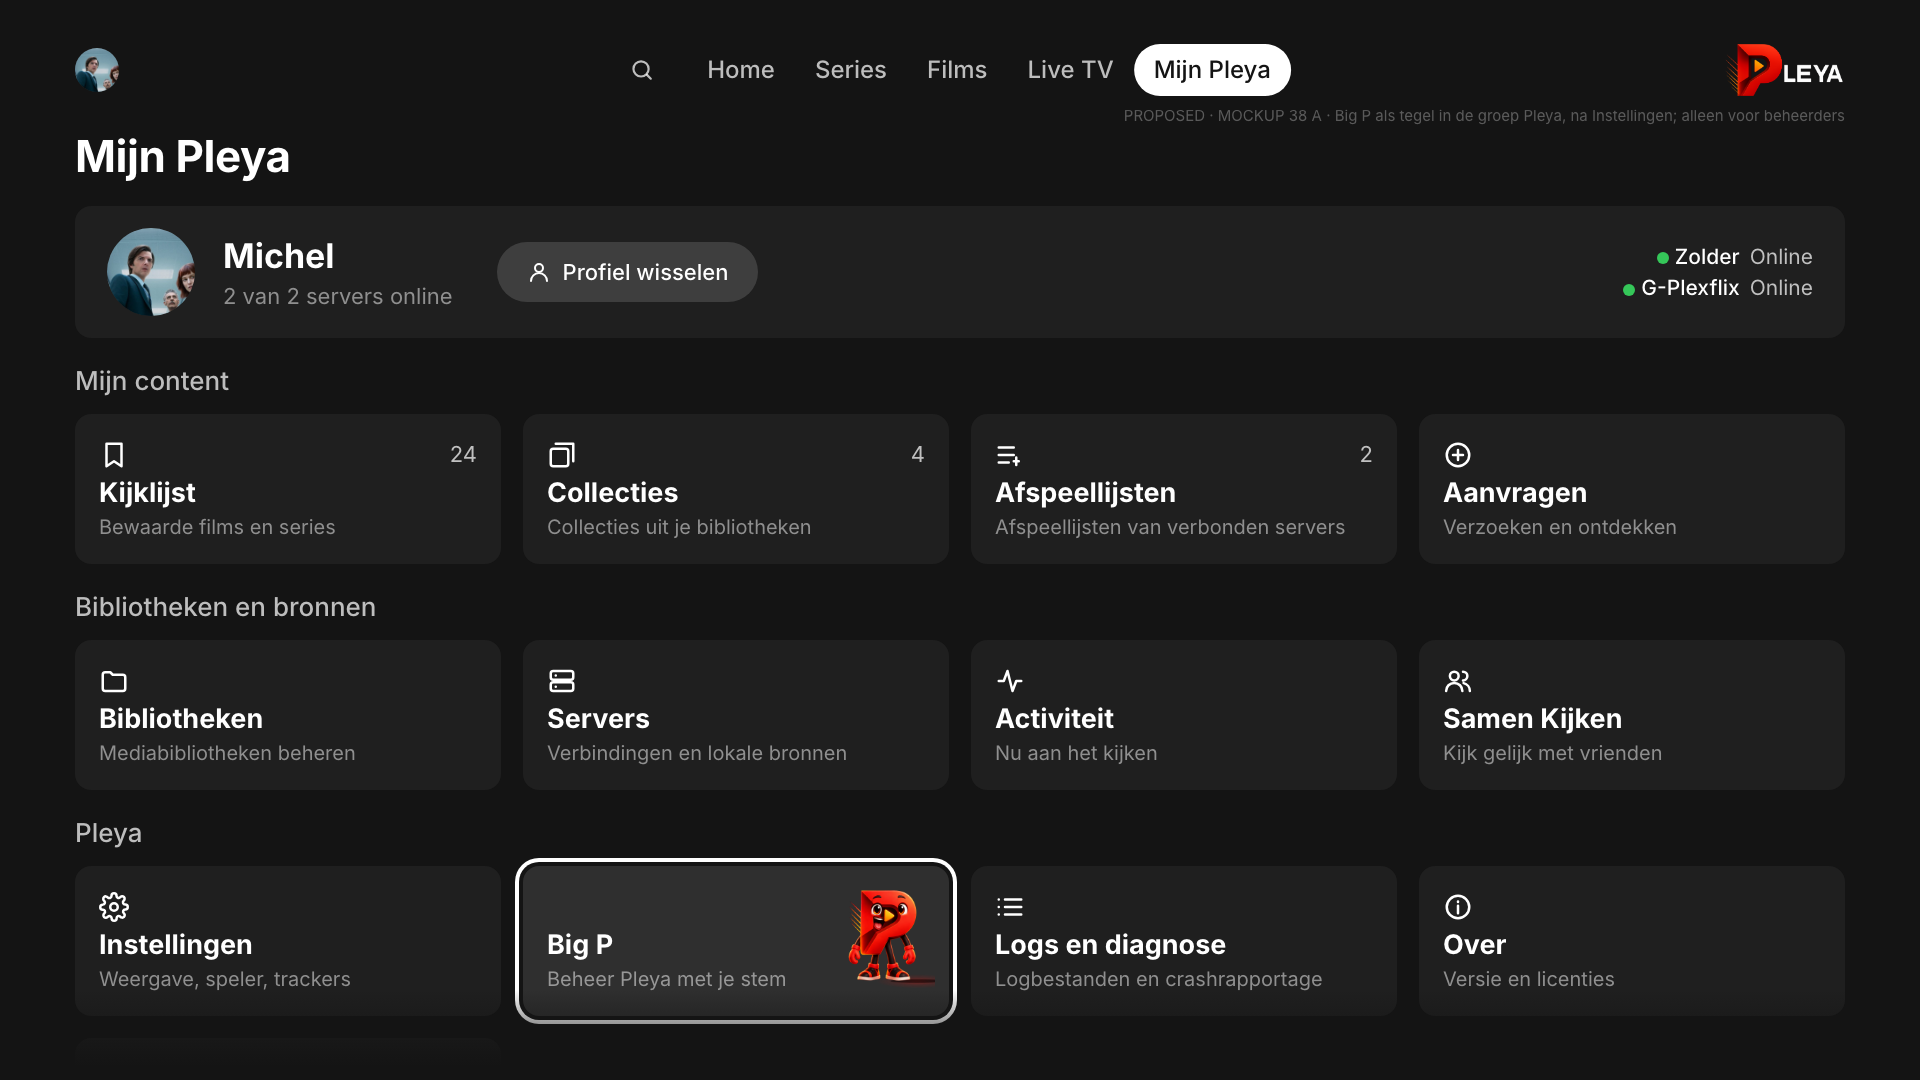
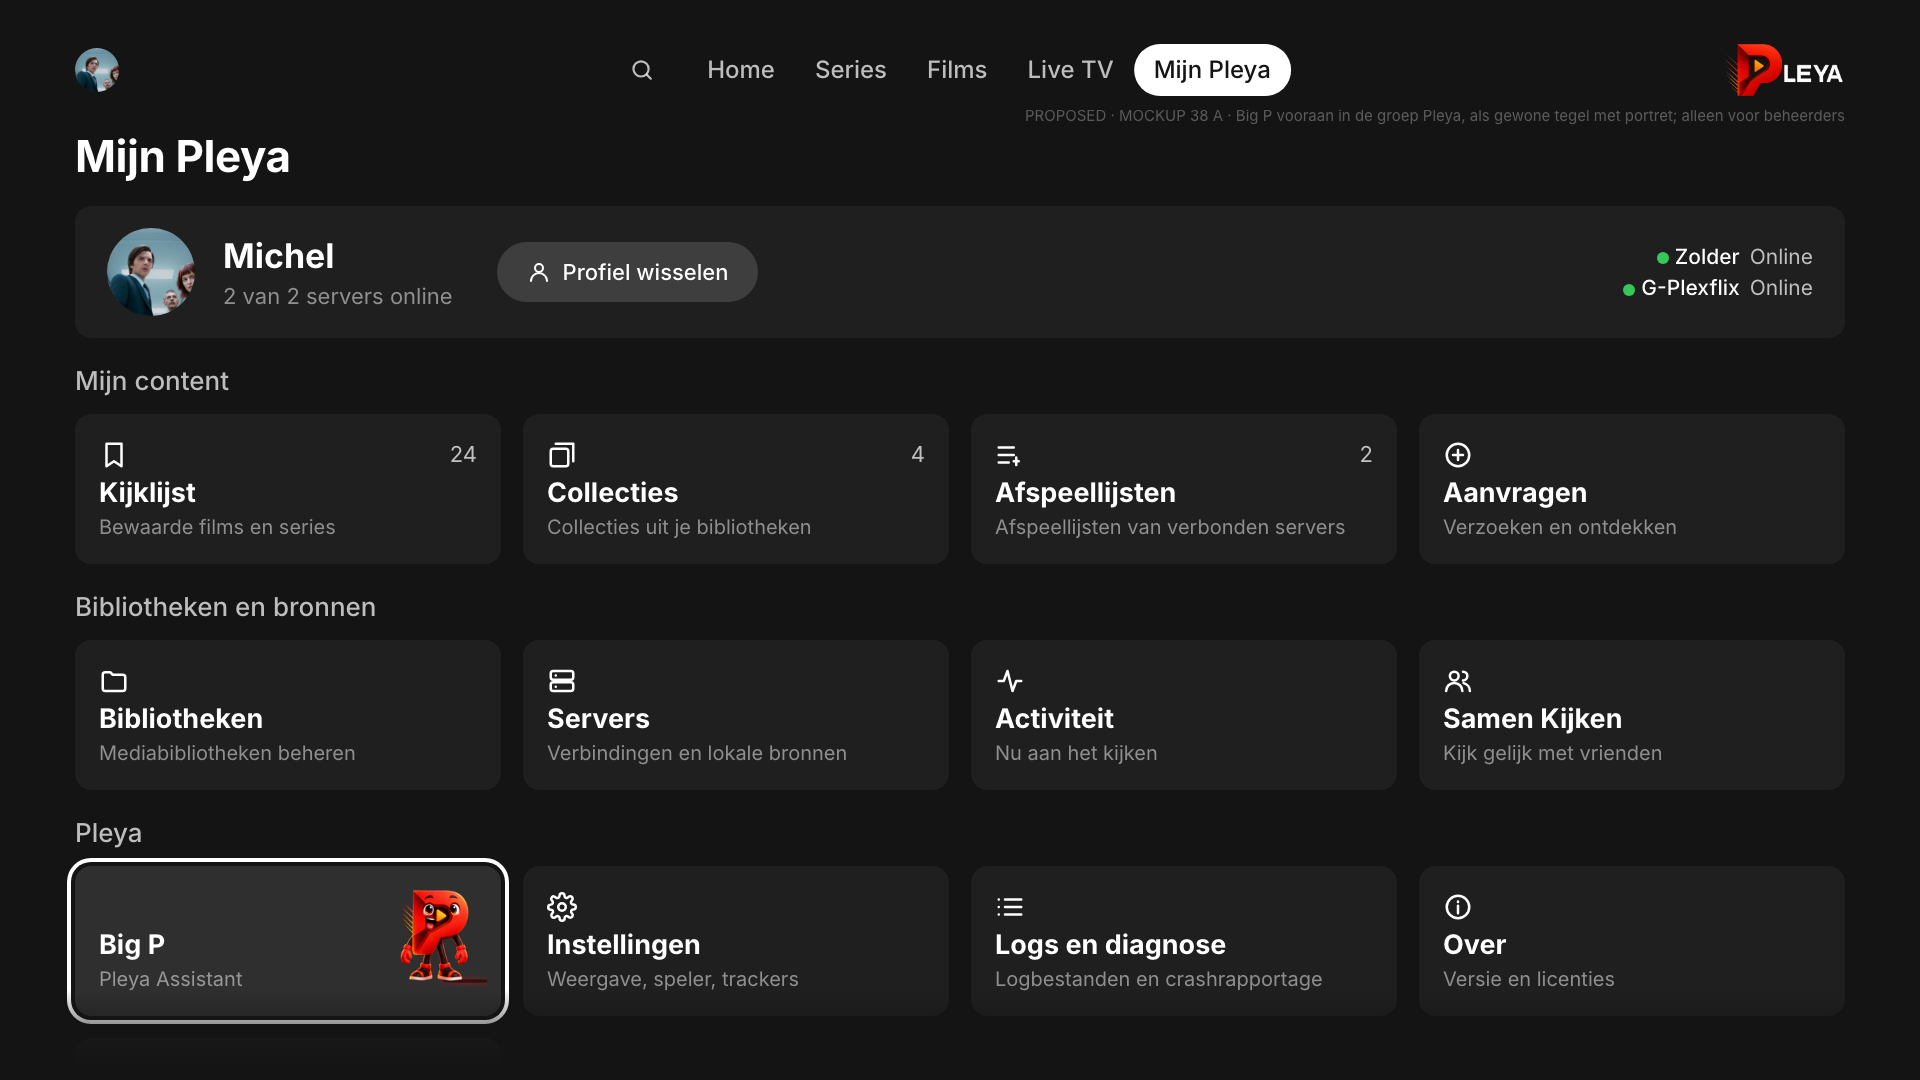
docs(design): set 38 bijgewerkt na Michels besluiten van 2 oktober
Big P vooraan in de groep Pleya met portret, primaire knop Vraag Big P,
Ik luister… tijdens luisteren, Beheerder: Nee op de kaarten, en 38 J
voor het resultaat met fout. Nog steeds PROPOSED tot visueel akkoord.

Changed region(s): [[0.0312, 0.7944, 0.5, 0.9472], [0.5312, 0.0917, 0.875, 0.1222]]

diff --git a/docs/assets/tvos-unified/src/pages/38-big-p-j.html b/docs/assets/tvos-unified/src/pages/38-big-p-j.html
@@ -1,0 +1,15 @@
+<link rel="stylesheet" href="../assets/bigp/bigp.css">
+{{nav:Mijn Pleya|live,avatar}}
+<div class="page"><div class="page-title">Big P</div><div class="page-sub">Mijn Pleya ▸ Big P</div></div>
+<div class="bp-fig"><img src="../assets/bigp/bigp-bezorgd.png" alt=""></div>
+<div class="bp-col">
+  <div class="bp-q">Je vroeg: <b>Scan mijn filmbibliotheek opnieuw</b></div>
+  <div class="bp-h">Dat lukte niet: Zolder is niet bereikbaar.</div>
+  <div class="bp-p">Er is niets veranderd. Probeer het opnieuw zodra de server weer online is.</div>
+  <div class="pcard">
+    <div class="hd">{{icon:pleya}} Niet uitgevoerd door Pleya · 21:16</div>
+    <div class="line"><span class="check fail">{{icon:close}}</span><div><div class="t">Scan niet gestart · Films · Zolder</div><div class="s">Pleya Server · server niet bereikbaar</div></div></div>
+  </div>
+  <div class="btn-row"><div class="btn primary focus">{{icon:mic}} Vraag Big P</div><div class="btn">Klaar</div></div>
+</div>
+<div class="note">PROPOSED · MOCKUP 38 J · Resultaat met fout: bezorgde Big P en een gewone Pleya-foutkaart; geen aparte state</div>

diff --git a/docs/assets/tvos-unified/src/pages/38-big-p-a.html b/docs/assets/tvos-unified/src/pages/38-big-p-a.html
@@ -39,8 +39,8 @@
   </div>
   <div class="group-label">Pleya</div>
   <div class="tiles c4">
+    <div class="tile bigp focus"><img src="../assets/bigp/bigp-blij.png" alt=""><div class="t">Big P</div><div class="s">Pleya Assistant</div></div>
     <div class="tile">{{icon:gear}}<div class="t">Instellingen</div><div class="s">Weergave, speler, trackers</div></div>
-    <div class="tile bigp focus"><img src="../assets/bigp/bigp-blij.png" alt=""><div class="t">Big P</div><div class="s">Beheer Pleya met je stem</div></div>
     <div class="tile">{{icon:list}}<div class="t">Logs en diagnose</div><div class="s">Logbestanden en crashrapportage</div></div>
     <div class="tile">{{icon:info}}<div class="t">Over</div><div class="s">Versie en licenties</div></div>
   </div>
@@ -49,4 +49,4 @@
   </div>
 </div>
 <div class="cut"></div>
-<div class="note">PROPOSED · MOCKUP 38 A · Big P als tegel in de groep Pleya, na Instellingen; alleen voor beheerders</div>
+<div class="note">PROPOSED · MOCKUP 38 A · Big P vooraan in de groep Pleya, als gewone tegel met portret; alleen voor beheerders</div>

diff --git a/docs/assets/tvos-unified/src/pages/38-big-p-h.html b/docs/assets/tvos-unified/src/pages/38-big-p-h.html
@@ -29,6 +29,7 @@
     <div class="kv"><span class="k">Gebruiker</span><span class="v">Sam</span></div>
     <div class="kv"><span class="k">Server</span><span class="v">Zolder (Pleya Server)</span></div>
     <div class="kv"><span class="k">Toegang</span><span class="v">Kids <span class="muted">· alleen deze bibliotheek</span></span></div>
+    <div class="kv"><span class="k">Beheerder</span><span class="v">Nee</span></div>
     <div class="kv"><span class="k">Wachtwoord</span><span class="pw">{{icon:lock}}<span class="muted">Kies een wachtwoord</span></span></div>
     <div class="fine">{{icon:info}}<span>Het wachtwoord typ je hier in Pleya, in een afgeschermd veld. Het gaat niet naar Big P en niet naar de AI-provider.</span></div>
   </div>

diff --git a/docs/assets/tvos-unified/src/pages/38-big-p-i.html b/docs/assets/tvos-unified/src/pages/38-big-p-i.html
@@ -29,6 +29,7 @@
     <div class="kv"><span class="k">Gebruiker</span><span class="v">Sam</span></div>
     <div class="kv"><span class="k">Server</span><span class="v">G-Plexflix (Plex)</span></div>
     <div class="kv"><span class="k">Toegang</span><span class="v">Kids <span class="muted">· alleen deze bibliotheek</span></span></div>
+    <div class="kv"><span class="k">Beheerder</span><span class="v">Nee</span></div>
     <div class="fine">{{icon:info}}<span>Beheerde Plex Home-gebruiker, met een share op deze server. Sam krijgt geen eigen Plex-account en kiest zijn profiel in jouw Plex Home.</span></div>
   </div>
   <div class="btn-row"><div class="btn focus">Annuleren</div><div class="btn">Aanmaken</div></div>

diff --git a/docs/assets/tvos-unified/src/pages/38-big-p-g.html b/docs/assets/tvos-unified/src/pages/38-big-p-g.html
@@ -10,6 +10,6 @@
     <div class="hd">{{icon:pleya}} Uitgevoerd door Pleya · 21:14</div>
     <div class="line"><span class="check">{{icon:check}}</span><div><div class="t">Scan gestart · Films · Zolder</div><div class="s">Pleya Server · bibliotheek Films</div></div></div>
   </div>
-  <div class="btn-row"><div class="btn primary focus">{{icon:mic}} Nog een vraag</div><div class="btn">Klaar</div></div>
+  <div class="btn-row"><div class="btn primary focus">{{icon:mic}} Vraag Big P</div><div class="btn">Klaar</div></div>
 </div>
 <div class="note">PROPOSED · MOCKUP 38 G · Resultaat: kort antwoord van Big P, daaronder de Pleya-kaart met wat er is uitgevoerd</div>

diff --git a/docs/assets/tvos-unified/src/pages/38-big-p-e.html b/docs/assets/tvos-unified/src/pages/38-big-p-e.html
@@ -20,8 +20,8 @@ body .bp-fig { width: 270px; top: 250px; left: 140px; }
 <div class="dim"></div>
 <div class="bp-fig"><img src="../assets/bigp/bigp-verrast.png" alt=""></div>
 <div class="bp-col">
-  <div class="bp-state"><span class="dot"></span> Ik luister</div>
-  <div class="bp-h">Zeg wat er moet gebeuren</div>
+  <div class="bp-state"><span class="dot"></span> Ik luister…</div>
+  <div class="bp-h">Spreek je vraag in.</div>
 </div>
 <div class="kb">
   <div class="lbl">Vraag Big P</div>

diff --git a/docs/assets/tvos-unified/src/assets/bigp/bigp.css b/docs/assets/tvos-unified/src/assets/bigp/bigp.css
@@ -21,3 +21,5 @@
 .pcard .line .s { font-size: 20px; color: var(--ink-3); margin-top: 4px; }
 .pcard .check { width: 40px; height: 40px; background: var(--ok); }
 .pcard .check .ic { width: 24px; height: 24px; }
+
+.pcard .check.fail { background: #c0392b; }

diff --git a/docs/tvos-redesign-38-big-p-proposed.md b/docs/tvos-redesign-38-big-p-proposed.md
@@ -42,23 +42,23 @@ De kunst komt ongewijzigd uit `~/.claude/skills/big-p/avatar/`, verkleind naar 5
 | Werken (38 F) en achter de bevestiging (38 H, I) | `bigp-vinger_presenteren` | Een stilstaande houding die "momentje" zegt, zonder draaiend wiel of animatie. |
 | Resultaat (38 G) | `bigp-duim_presenteren` | Duim omhoog plus een open hand naar de resultaatkaart: de figuur wijst naar wat Pleya deed. |
 
-Bij een mislukte actie is `bigp-bezorgd` de logische kunst. Die stand is niet getekend, zie de open
-vragen.
+| Resultaat met fout (38 J) | `bigp-bezorgd` | Hoort bij de resultaatstand, niet bij een vijfde stand. De Pleya-kaart draagt de fout; Big P laat alleen zien dat het niet goed ging. |
 
 ## De beelden
 
 | Nr | Bestand | Wat het beslist | Focus bij openen |
 |----|---------|-----------------|------------------|
-| 38 A | 38-big-p-a.png | Big P is een gewone hub-tegel in de groep Pleya, op plek twee na Instellingen. In plaats van een lijnicoon draagt hij een klein portret van Big P rechts in de tegel. Ondertitel "Beheer Pleya met je stem". Uitloggen schuift naar een tweede rij onder de vouw. De rest van de hub volgt `buildTvMyPleyaGroups` en de Nederlandse teksten uit `nl.i18n.json`. | Big P-tegel (getekend als de gefocuste tegel; bij binnenkomst geldt de bestaande hubregel) |
+| 38 A | 38-big-p-a.png | Big P is een gewone hub-tegel, vooraan in de groep Pleya, met dezelfde maat, dichtheid en focusstijl als de andere tegels. In plaats van een lijnicoon draagt hij een klein portret van Big P rechts in de tegel. Ondertitel "Pleya Assistant". Uitloggen schuift naar een tweede rij onder de vouw. De rest van de hub volgt `buildTvMyPleyaGroups` en de Nederlandse teksten uit `nl.i18n.json`. | Big P-tegel (getekend als de gefocuste tegel; bij binnenkomst geldt de bestaande hubregel) |
 | 38 B | 38-big-p-b.png | Beheerder zonder toegang. Big P staat er wel, met een korte uitleg en de zin dat je hem hier niet kunt aanzetten of kopen. Geen vraagknop, geen prijs, geen link naar een winkel. | "Terug naar Mijn Pleya", de enige knop |
 | 38 C1 | 38-big-p-c1.png | Geen provider ingesteld. De letterlijke zin uit de opdracht als kop, één zin over wie wat doet, en "Big P instellen" als primaire actie. | "Big P instellen" |
 | 38 C2 | 38-big-p-c2.png | Providerkeuze als drie gewone rijen: Ollama-server, Ollama Cloud, OpenRouter. Rechts staat wat je daarna nodig hebt (adres of API-sleutel). Onder de rijen staat welke gegevens naar de provider gaan en dat wachtwoorden en tokens in Pleya blijven. | Ollama-server, omdat dat de enige keuze is waarbij je vragen thuis blijven |
 | 38 D | 38-big-p-d.png | Rust. Statusregel met de servers waarop Big P kan handelen, een begroeting, één primaire knop "Vraag Big P" en drie voorbeeldvragen als gewone focusbare knoppen. Een voorbeeld kiezen stuurt die vraag meteen. | "Vraag Big P" |
-| 38 E | 38-big-p-e.png | Luisteren gebeurt in het systeemtoetsenbord van tvOS met dicteren, onderaan over het scherm. Pleya tekent geen eigen microfoonscherm. Big P staat kleiner in de luisterstand met "Ik luister". | Bepaalt tvOS |
+| 38 E | 38-big-p-e.png | Luisteren gebeurt in het systeemtoetsenbord van tvOS met dicteren, onderaan over het scherm. Pleya tekent geen eigen microfoonscherm. Big P staat kleiner in de luisterstand met "Ik luister…" en de kop "Spreek je vraag in.". | Bepaalt tvOS |
 | 38 F | 38-big-p-f.png | Werken. De vraag staat er letterlijk boven, daaronder één statusregel "Bezig met je vraag…". Geen voortgangsbalk, geen tussenstappen. Annuleren is de enige knop. | "Annuleren" |
-| 38 G | 38-big-p-g.png | Resultaat. Big P geeft een antwoord van één zin plus één zin uitleg. Daaronder staat een kaart van Pleya ("Uitgevoerd door Pleya · tijd") met per actie een regel: "Scan gestart · Films · Zolder". Daarna "Nog een vraag" en "Klaar". | "Nog een vraag" |
-| 38 H | 38-big-p-h.png | Bevestiging, Pleya Server. Pleya-kaart "Gebruiker aanmaken" met gebruiker, server, toegang en een afgeschermd wachtwoordveld. Aanmaken is uitgeschakeld tot het wachtwoord is ingevuld. De kleine letters zeggen dat het wachtwoord niet naar Big P en niet naar de AI-provider gaat. | "Annuleren" |
-| 38 I | 38-big-p-i.png | Dezelfde kaart voor Plex, zonder wachtwoordveld: een beheerde Home-gebruiker heeft geen eigen login, en een pincode instellen zit niet in deze ronde. Aanmaken is meteen bruikbaar. De kleine letters zeggen wat er op Plex echt ontstaat: "Beheerde Plex Home-gebruiker, met een share op deze server." | "Annuleren" |
+| 38 G | 38-big-p-g.png | Resultaat. Big P geeft een antwoord van één zin plus één zin uitleg. Daaronder staat een kaart van Pleya ("Uitgevoerd door Pleya · tijd") met per actie een regel: "Scan gestart · Films · Zolder". Daarna "Vraag Big P" en "Klaar". | "Vraag Big P" |
+| 38 H | 38-big-p-h.png | Bevestiging, Pleya Server. Pleya-kaart "Gebruiker aanmaken" met gebruiker, server, toegang, "Beheerder: Nee" en een afgeschermd wachtwoordveld. Eén kaart voor het hele doel: aanmaken plus de toegang die erbij gevraagd is. Aanmaken is uitgeschakeld tot het wachtwoord is ingevuld. De kleine letters zeggen dat het wachtwoord niet naar Big P en niet naar de AI-provider gaat. | "Annuleren" |
+| 38 I | 38-big-p-i.png | Dezelfde kaart voor Plex, met "Beheerder: Nee" en zonder wachtwoordveld: een beheerde Home-gebruiker heeft geen eigen login, en een pincode instellen zit niet in deze ronde. Aanmaken is meteen bruikbaar. De kleine letters zeggen wat er op Plex echt ontstaat: "Beheerde Plex Home-gebruiker, met een share op deze server." | "Annuleren" |
+| 38 J | 38-big-p-j.png | Resultaat met fout, geen aparte stand: result(error). De bezorgde Big P, één zin over wat er misging en dat er niets veranderde, en een gewone Pleya-foutkaart: "Scan niet gestart · Films · Zolder" met een rode status. Daarna "Vraag Big P" en "Klaar". | "Vraag Big P" |
 
 ## Waarom Annuleren de standaardfocus is
 
@@ -85,39 +85,43 @@ wachtwoord invullen in het systeemtoetsenbord, terug naar rechts naar Aanmaken.
 - De exacte vorm van het tvOS-toetsenbord. 38 E is een benadering; het echte toetsenbord tekent
   tvOS zelf, en de compositie geldt alleen voor wat Pleya eromheen tekent.
 
-## Open vragen voor Michel
+## Besluiten van Michel, 2 oktober 2026
 
-1. **Plek van de tegel.** Na Instellingen (getekend) of als eerste in de groep Pleya? Op plek twee
-   blijft Instellingen waar het nu staat; op plek één is Big P de eerste tegel die je in de groep
-   raakt. In beide gevallen schuift Uitloggen naar een tweede rij.
-2. **Portret in de tegel.** De Big P-tegel is de enige hub-tegel met kunst in plaats van een
-   icoon. Akkoord, of liever een lijnicoon zoals de rest en Big P pas op het scherm zelf?
-3. **Label van de primaire knop.** "Vraag Big P" met microfoonicoon (getekend) of "Spreek je vraag
-   in"? Het systeemtoetsenbord laat ook typen toe, dus "Spreek" belooft alleen de helft.
-4. **Voorbeeldvragen.** Vast drietal, of drie die Pleya kiest op basis van wat er op de servers
-   speelt (bijvoorbeeld "Welke taken zijn mislukt?" alleen als er een mislukte taak is)?
-5. **Foutstand.** Moet `bigp-bezorgd` als vijfde stand bij "actie mislukt", of blijft het bij vier
-   standen en draagt de Pleya-kaart de fout met een rode status?
-6. **Kaart bij meerdere acties.** Bij "Maak Sam aan en geef hem toegang tot Kids" zijn het twee
-   acties. Eén bevestigingskaart voor het geheel (getekend) of één per actie?
-7. **Annuleren tijdens werken.** Kan Pleya een al gestarte servertaak terugdraaien, of betekent
-   Annuleren in 38 F alleen "stop met wachten op het model"? Dat bepaalt of de knop er mag staan
-   nadat een actie is begonnen.
+1. De tegel staat vooraan in de groep Pleya: Big P, Instellingen, Logs en diagnose, Over, Uitloggen.
+2. De tegel draagt het portret van Big P, geen lijnicoon, maar blijft een gewone hub-tegel. Geen
+   afwijkende advertentiekaart.
+3. De primaire knop heet "Vraag Big P". Hij beschrijft de actie en niet het invoermiddel; typen via
+   het systeemtoetsenbord of een iPhone kan ook. Tijdens luisteren staat er "Ik luister…".
+4. Geen vijfde stand. Een mislukking is de resultaatstand met fout (38 J): bezorgde Big P plus een
+   gewone Pleya-foutkaart.
+5. Eén logisch doel is één bevestiging. "Maak Sam aan en geef hem alleen toegang tot Kids" is één
+   kaart (38 H, 38 I) met de toegang erin; Pleya voert de stappen daarna na elkaar uit en meldt
+   eerlijk welk deel mislukte. Twee losse gevoelige acties blijven twee kaarten. Er komt geen
+   algemene bundel- of transactielaag.
+
+## Nog open
+
+1. **Voorbeeldvragen.** Voorstel: een vast drietal in deze ronde. Kiezen op basis van wat er op de
+   servers speelt kan later zonder ander ontwerp.
+2. **Annuleren tijdens werken (38 F).** In de core stopt Annuleren het wachten op het model; een
+   actie die Pleya al heeft uitgevoerd wordt niet teruggedraaid, en een gevoelige actie loopt nooit
+   zonder kaart. De knop blijft daarom staan, en de resultaatkaart toont wat er al gebeurd was.
 
 ## De beelden, hashes
 
 | Nr | Bestand | SHA256 |
 |----|---------|--------|
[16 lines of base64/hex data omitted]
 
 Herschieten: `cd docs/assets/tvos-unified/src && PLEYA_MOCKUP_DEST=$PWD/../mockups-2026-10-02-big-p node build.mjs 38-big-p`.
 Een andere pixel betekent een andere hash; werk dan deze tabel bij.
